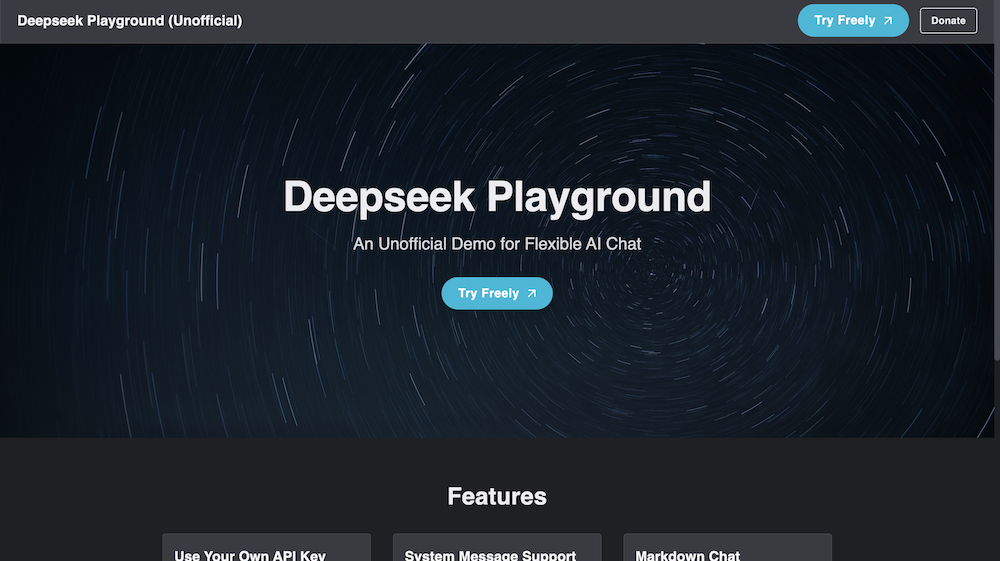
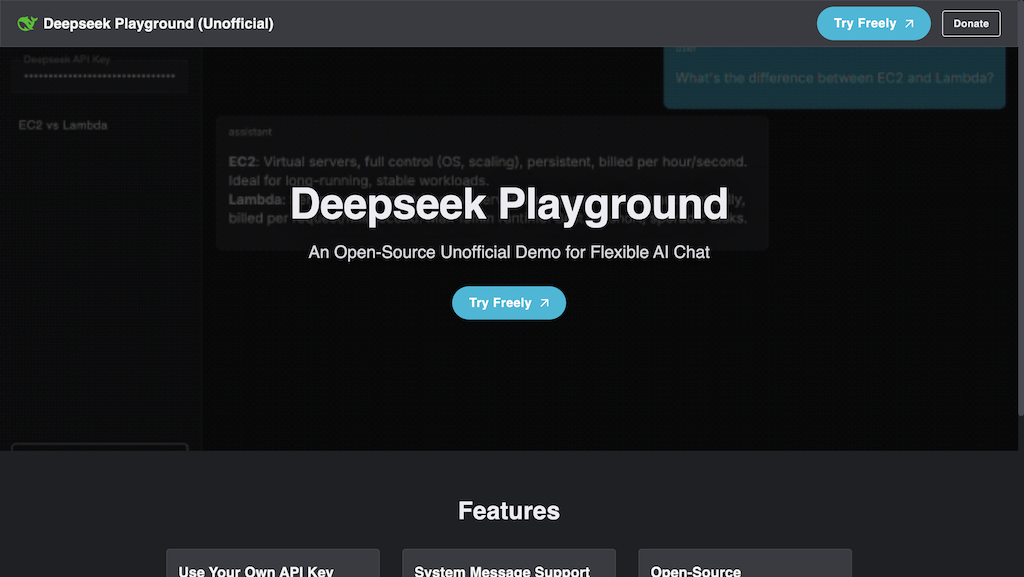
Improved UI of index.tsx

diff --git a/src/pages/index.tsx b/src/pages/index.tsx
@@ -117,7 +117,7 @@ export default function LandingPage() {
           sx={{
             position: "relative",
             height: "70vh",
-            background: `url("/images/hero-bg.jpeg") center/cover no-repeat`,
+            background: `url("/images/deepseek-playground-demo.gif") center/cover no-repeat`,
             display: "flex",
             alignItems: "center",
             justifyContent: "center",
@@ -127,7 +127,7 @@ export default function LandingPage() {
             sx={{
               position: "absolute",
               inset: 0,
-              backgroundColor: "rgba(0,0,0,0.5)",
+              backgroundColor: "rgba(0,0,0,0.7)",
             }}
           />
           <Container
@@ -137,10 +137,24 @@ export default function LandingPage() {
               zIndex: 1,
             }}
           >
-            <Typography variant="h2" sx={{ fontWeight: 700, mb: 2 }}>
+            <Typography
+              variant="h2"
+              sx={{
+                fontWeight: 700,
+                mb: 2,
+                textShadow: "0 0 50px rgba(0,0,0,1)",
+              }}
+            >
               Deepseek Playground
             </Typography>
-            <Typography variant="h5" sx={{ mb: 4, opacity: 0.9 }}>
+            <Typography
+              variant="h5"
+              sx={{
+                mb: 4,
+                opacity: 0.9,
+                textShadow: "0 0 30px rgba(0,0,0,1)",
+              }}
+            >
               An Open-Source Unofficial Demo for Flexible AI Chat
             </Typography>
             <Button
@@ -206,11 +220,11 @@ export default function LandingPage() {
             <Card sx={{ maxWidth: 300, backgroundColor: "#2C2D31" }}>
               <CardContent>
                 <Typography variant="h6" sx={{ fontWeight: 600, mb: 1 }}>
-                  Markdown Chat
+                  Open-Source
                 </Typography>
                 <Typography variant="body2" color="#bfbfbf">
-                  Format messages with lists, links, and code blocks — ideal for
-                  sharing snippets.
+                  Fully transparent and customizable. Contribute or adapt the
+                  code to suit your needs.
                 </Typography>
               </CardContent>
             </Card>

diff --git a/src/pages/login.tsx b/src/pages/login.tsx
@@ -38,7 +38,8 @@ export default function Login() {
         sx={{
           flex: 1,
           position: "relative",
-          background: 'url("/images/hero-bg.jpeg") center/cover no-repeat',
+          background:
+            'url("/images/deepseek-playground-demo.gif") center/cover no-repeat',
         }}
       >
         <Box
